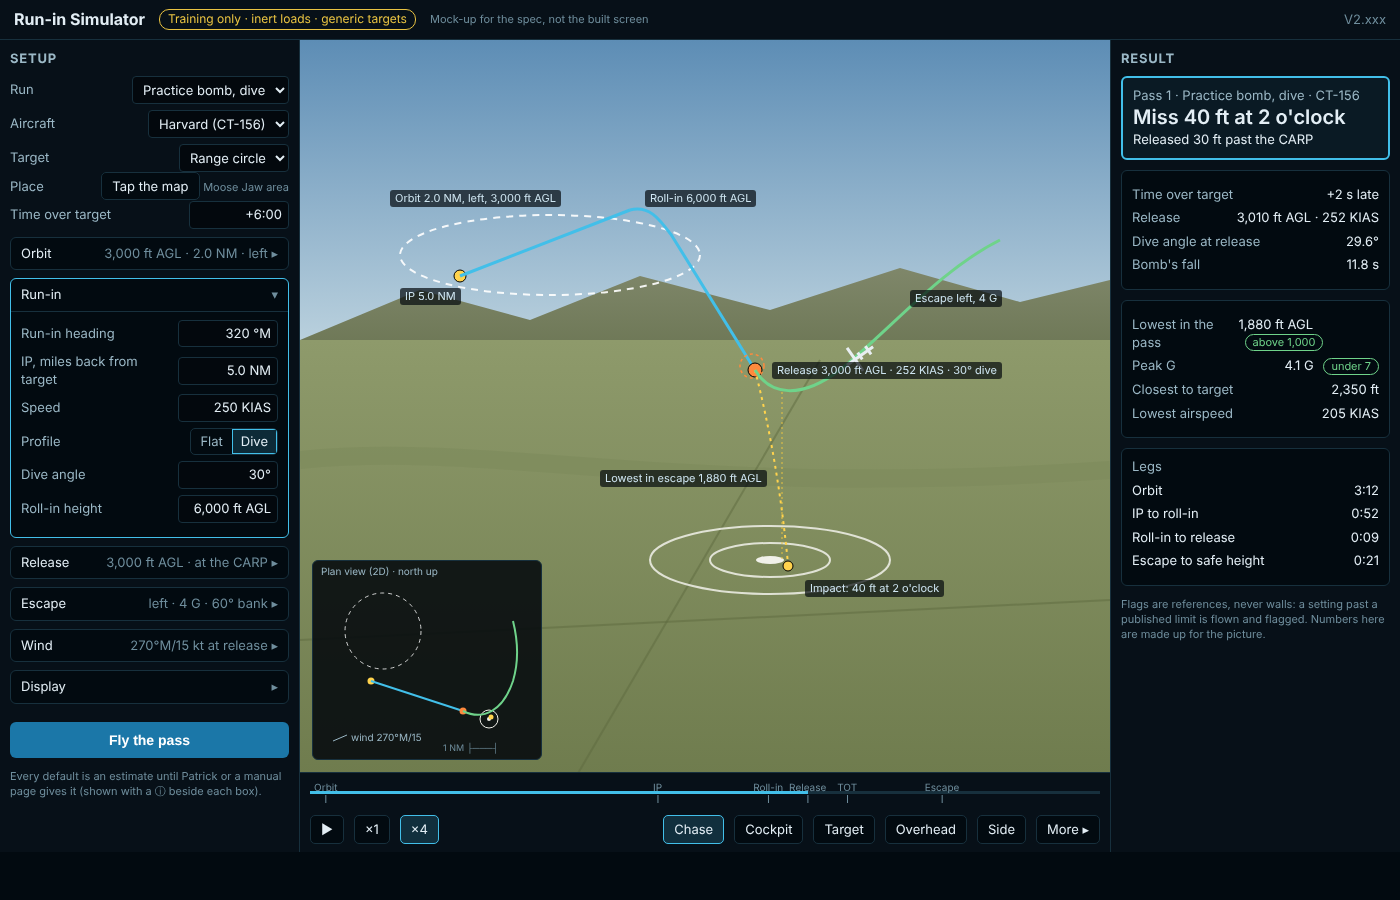
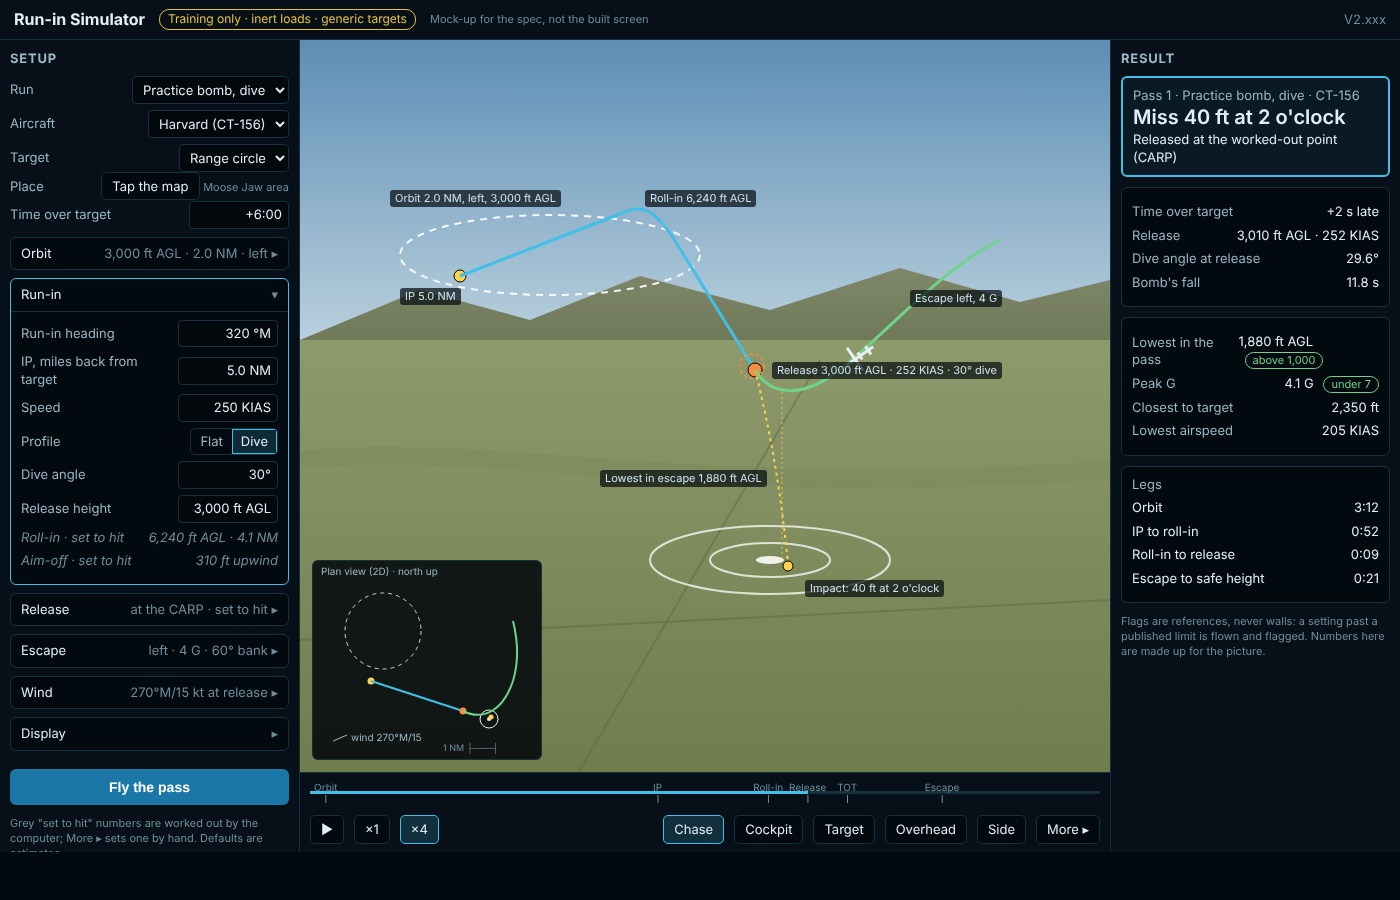
Run-in Simulator: spec approved, with Patrick's "computer sets what's needed to hit" (RS-9)
Patrick approved the spec (relayed by Dad, 16 Oct 2026: "yea pat approves"),
adding: "the user should sset a few parameters the then the computer sets the
offset or whatever variable needs adjusting to hit". RS-9 and RS-R9 write that
down: for each run a short list of settings is the user's, and the release
point, aim-off, roll-in and orbit exit are worked out to hit, with a hand
override under More that shows the miss. Spec, decisions, requirements, plan,
README, ALL-44 and the waiting list marked approved; the mock-up shows the
worked-out numbers greyed as "set to hit".

Claude-Session: https://claude.ai/code/session_01RASZnt8wGVYk1fkHrVtpYT

Changed region(s): [[0.7986, 0.1244, 1.0, 0.7467], [0.0, 0.56, 0.215, 0.9333]]

diff --git a/docs/modules/run-in-sim/spec.md b/docs/modules/run-in-sim/spec.md
@@ -1,6 +1,6 @@
 # Run-in Simulator: spec
 
-Dad's ask (16 Oct 2026): "Lets build a run in simulator...the target can be a stadium, a bridge, mountains etc in a 3d enviroment. the user should see an orbit and a run in and be able to set those parameters along with speed alt winds. to see how the flyover, inert bomb drop, DZ offload will go, Diving drop or flat, as well as the escape manuver". Patrick approved the plan (relayed by Dad, 16 Oct 2026: "got the yes"). **This spec is a draft for Patrick's approval; no code starts before it** (rule book, "Write it down first").
+Dad's ask (16 Oct 2026): "Lets build a run in simulator...the target can be a stadium, a bridge, mountains etc in a 3d enviroment. the user should see an orbit and a run in and be able to set those parameters along with speed alt winds. to see how the flyover, inert bomb drop, DZ offload will go, Diving drop or flat, as well as the escape manuver". Patrick approved the plan (relayed by Dad, 16 Oct 2026: "got the yes"). **Patrick approved this spec (relayed by Dad, 16 Oct 2026: "yea pat approves"), adding: "the user should sset a few parameters the then the computer sets the offset or whatever variable needs adjusting to hit"** (RS-9, below).
 
 ## What it is for
 
@@ -22,7 +22,7 @@ One screen, laid out by the house rules (`.agent/skills/screen-layout-and-style`
 - **Wind:** at the release height and at the ground (°M and kt, linear between them), and today's temperature against the standard day. Under More, a "planning wind" the CARP is worked out with, if different from the wind the pass meets, to see what a wrong forecast does.
 - **Display:** what's drawn (the orbit and run-in lines, the CARP, the load's trail, the flags), as the house rules say.
 
-The main button is **Fly the pass**. Every setting starts at a default (the table below), and each box marks an estimate with a ⓘ that says so.
+Each box shows only the few settings the user sets for that run (RS-9, below). Everything else in it is worked out by the computer and shown greyed with "set to hit". The main button is **Fly the pass**. Every setting starts at a default (the table below), and each box marks an estimate with a ⓘ that says so.
 
 **Middle: the 3D view.** The real ground (the shared terrain, with the satellite picture draped on it) round the target, the target shape, the aircraft model, and the planned lines: the orbit, the IP, the run-in and the dive line, the CARP and the escape. As it flies, a trail follows the aircraft, and after release a trail follows the load to its impact mark. A small **plan view (2D)**, north up, sits in a corner. It shows the same lines from above with the wind arrow and a scale.
 
@@ -32,6 +32,19 @@ The main button is **Fly the pass**. Every setting starts at a default (the tabl
 - the release (height, KIAS, dive angle) against the plan, and the load's time of fall;
 - the escape: the lowest height above the ground over the whole pass after the IP, peak G, the closest distance to the target and the lowest airspeed, each flagged against its reference;
 - the time on each leg.
+
+## What the user sets and what the computer works out (RS-9)
+
+Patrick (relayed by Dad, 16 Oct 2026): "the user should sset a few parameters the then the computer sets the offset or whatever variable needs adjusting to hit". So for each run the user sets a few essentials. The computer then works out every other number the pass needs to hit the aim point (or to make the flypast on time and at height), and flies it. These include the release point, the aim-off for the wind, the roll-in point, the IP turn and the orbit exit.
+
+| Run | The user sets | The computer works out to hit |
+|---|---|---|
+| Flyover | target, run-in heading, speed, height over the target's top, time over target | the crab for the wind, the IP turn, the orbit exit for the time over target |
+| Practice bomb, flat | target, run-in heading, speed, release height | the release point (the CARP), so the aim-off for the wind; the crab; the orbit exit |
+| Practice bomb, dive | target, run-in heading, dive angle, speed at release, release height | the release point on the dive line and the aim-off point upwind; the roll-in point and height, so the dive is steady for a few seconds before release (5 s, an estimate); the orbit exit |
+| Cargo offload | drop zone and point of impact, run-in heading, drop speed, drop height | the release point (the CARP: the green light), the crab, the orbit exit |
+
+The IP distance, the wind, the escape and the orbit keep their defaults unless the user changes them. Under More, any worked-out number can be set by hand instead. The pass is then flown as set, and the card shows the miss that results, which shows what a late release or a wrong aim-off does. When the essentials can't hit (for example, a release too low for the dive to be steady), the computer says which essential stops it and what would work, and still flies the pass as set.
 
 ## Targets (RS-2)
 

diff --git a/docs/DECISIONS.md b/docs/DECISIONS.md
@@ -52,7 +52,7 @@ Each row is one decision. "Rule" is the decision as it now reads (reworded where
 | ALL-40 | **The fastest G ever builds is 6 G/s** (was 8, twice the normal 4 G/s, ALL-28 and TS-93). One core number, `t6-performance.js` T6A_G_ONSET_CEILING_GPS, which the Formation's gate (`handling.js` G_ONSET_CEILING) and Traffic's (`traffic/envelope.js`, its copy gone) both read. No pilot source supports more: centrifuge training tops out about 6 G/s; Patrick's recorded pulls peak under 3 G/s; the manuals say only "smooth, deliberate". An estimate. | Patrick 12 Oct 2026 ("make it 6 g/s ceiling"). Built V2.424. |
 | ALL-41 | **Manuals in the public repo: only the CFAFM stays out.** The SMM and the other manuals' text and figures may go in the repo and its docs, always with their page; the CFAFM, a controlled document, never goes in a repo, the project files, the site or the app. Checklists, boldface and performance charts are still never shipped in the tool. Replaces the reset's rule that no manual text or pictures went in the repo (AGENTS.md, ALL-R24). | Patrick, 13 Oct 2026: "SMM is fine in public repo. its just cfafm that cant", when he asked for the SMM's echelon, station-keeping and turn paragraphs in the Formation spec. |
 | ALL-42 | **Ships are told apart by their numbers and a coloured label, not by the fin** (Patrick, 13 Oct 2026: "Numbers plus a label"). Every CT-156 is painted as the real aircraft, navy fin included; each ship carries its own nose and fin number, and any view that must tell ships apart shows a small coloured label or marker over each ship. Debrief's "ship's colour on the fin" changes to match (its spec, the 3D view). The places that told ships apart by the fin colour (debrief `view3d/view.js`, turn-fight `view3d.js`, turn-sim `view3d.js`, traffic `view3d.js`, SOF `traffic3d.js`, EP Tabletop `world3d.js`) follow in their own lanes. (ALL-40 and ALL-41 are on open pull requests.) | new | Patrick, 13 Oct 2026 (wording approved as written). |
-| ALL-44 | **A new module, the Run-in Simulator:** an orbit, a run-in, a release (or a flypast) and an escape, auto-flown in 3D over the real ground to the user's settings, for flyovers, inert practice-bomb passes (flat or dive) and cargo offloads over a drop zone; generic target shapes, training only. Its folder is `docs/modules/run-in-sim/`, decisions prefix RS-. Building starts on Patrick's approval of the spec. (ALL-43 is taken by the shelved Navigation Planner's draft pull request.) | new | Dad, 16 Oct 2026; Patrick approved the plan, relayed by Dad ("got the yes"). Wording not yet confirmed with Patrick. |
+| ALL-44 | **A new module, the Run-in Simulator:** an orbit, a run-in, a release (or a flypast) and an escape, auto-flown in 3D over the real ground to the user's settings, for flyovers, inert practice-bomb passes (flat or dive) and cargo offloads over a drop zone; generic target shapes, training only. Its folder is `docs/modules/run-in-sim/`, decisions prefix RS-. Building starts on Patrick's approval of the spec. (ALL-43 is taken by the shelved Navigation Planner's draft pull request.) | new | Dad, 16 Oct 2026; Patrick approved the plan and the spec, relayed by Dad ("got the yes", "yea pat approves"). |
 
 
 ## Replaced old decisions (history: what replaced them)

diff --git a/docs/modules/run-in-sim/decisions.md b/docs/modules/run-in-sim/decisions.md
@@ -1,6 +1,6 @@
 # Run-in Simulator: decisions (RS-)
 
-All proposed with the spec, for Patrick's approval; none is in force until he says yes. Wording not yet confirmed with Patrick.
+Approved with the spec by Patrick (relayed by Dad, 16 Oct 2026: "yea pat approves"); RS-9 is his addition.
 
 | ID | Decision | Files | Source |
 |---|---|---|---|
@@ -11,7 +11,8 @@ All proposed with the spec, for Patrick's approval; none is in force until he sa
 | RS-5 | **The load is core `drop.js`** (DB-36); its CARP is improved in place to take a dive release (the release velocity's vertical part, the release point slid along the dive line). | `src/core/drop.js`, flight-math list | Rule book, one copy of each formula. |
 | RS-6 | **Limits flag, never stop.** The stall line, the roll limit and the G onset always hold; the published G limit and VMO and the module's escape references (lowest height, distance from the target, the flyover's height over the target's top) are flagged on the result card; a setting past them is flown as set; a pass the aircraft can't make is flown as best it can and flagged, never silently changed. | spec | Rule book, "References, not walls". |
 | RS-7 | **Wind and temperature are typed**, at the release height and the ground, linear between; a "planning wind" under More works out the CARP when it differs from the wind met. No outside weather source. | spec, Setup | Dad, 16 Oct 2026: "speed alt winds" set by the user; rule book, new outside sources need Patrick's yes. |
-| RS-8 | **The pilot times the orbit's exit to make the planned time over target**; when no exit can, it flies the soonest and the card says how late. | spec, The pass | Build choice (time over target is the flyover's point); wording to confirm. |
+| RS-8 | **The pilot times the orbit's exit to make the planned time over target**; when no exit can, it flies the soonest and the card says how late. | spec, The pass | Build choice (time over target is the flyover's point); approved with the spec. |
+| RS-9 | **The user sets a few essentials; the computer works out the rest to hit.** For each run a short list of settings is the user's (spec table); the release point, the aim-off for the wind, the roll-in point, the IP turn and the orbit exit are worked out so the load lands on the aim point (or the flypast is on time and height). Under More any worked-out number can be set by hand, and the card shows the miss that results. | spec, What the user sets | Patrick, relayed by Dad, 16 Oct 2026: "the user should sset a few parameters the then the computer sets the offset or whatever variable needs adjusting to hit". |
 
 ## Waiting on a question
 

diff --git a/docs/PLAN.md b/docs/PLAN.md
@@ -153,7 +153,7 @@ After Traffic is signed off, the Turn Sim review runs before any Turn Sim buildi
 
 ## Waiting on Patrick
 
-- [ ] **Run-in Simulator spec (Dad's ask, 16 Oct 2026; you approved the plan, relayed by Dad).** Read [the spec](modules/run-in-sim/spec.md) with its screen picture and approve it, or say what to change, with the wording of ALL-44 and RS-1 to RS-8. Then its four questions one at a time (RS-Q1 the C-130J's flying, RS-Q2 the defaults, RS-Q3 the escape references, RS-Q4 the starting places; [README](modules/run-in-sim/README.md)); each has a working answer.
+- [ ] **Run-in Simulator questions (spec approved, relayed by Dad, 16 Oct 2026; [README](modules/run-in-sim/README.md)):** RS-Q1 how the C-130J flies (working answer: its own performance set from public numbers, every number an estimate; its numbers table comes to you before it flies), RS-Q2 the defaults, RS-Q3 the escape references, RS-Q4 the starting places. Each has a working answer.
 
 - [ ] **CT-156 model, the fix list (Shared 3D, plan Step 3b item 4; 12 Oct 2026):** every area's rows are verified and ruled (13 Oct 2026). **Look in the app (V2.427, branch `shared-3d-delivery-import`, #1032):** the station-change references (chunk 1) at High, outside and from the wingman positions, then the new look in each module; your yes merges them. **Try the in-game seat height** and say which default eye height makes sense (13 Oct 2026: "the seat does ... i can play with that and tell you"). Put CT-156 pictures into `3d-work` `refs/New folder/`, the list P1 to P15 in `ct156/measurements.md` (first P3 and P4: a wing's tie-down ring and the aft belly paddle close up, the station-change references) (the working plan: `3d-work` `ct156/plan.md`; every row: `ct156/fix-list.md`; the measurements: `ct156/measurements.md`); and next time at work, take the measurements on its list (M1 to M47: a phone clinometer on the canopy rail and on each canopy frame, tyres, sill and glare shield heights, bow sections, panel bezels, the rear cockpit, the prop blade, cowl seams, a helmet and harness, photos from each seat with the seat up and down). Handover: `Pat's claude work/graphics-handover-12oct-night.md`.
 - [ ] **Formation, 12 Oct evening (V2.411 to V2.417):** push tags v2.411 to v2.417 and deploy; fly the fighting wing turns, the telegraphed close turns, echelon Wings level and Reversal, and fluid Standard sequence R from a high stack; say yes or change the words for a decision row on Wings level and Reversal (working answer: Reversal turns 90° the other way). Handover: `Pat's claude work/formation-handover-12oct-evening.md`.

diff --git a/docs/modules/run-in-sim/plan.md b/docs/modules/run-in-sim/plan.md
@@ -1,6 +1,6 @@
 # Run-in Simulator: plan
 
-Only what is here gets built. Patrick approved the plan (relayed by Dad, 16 Oct 2026: "got the yes"); the spec is written and waits for his approval before any code.
+Only what is here gets built. Patrick approved the plan (relayed by Dad, 16 Oct 2026: "got the yes") and the spec ("yea pat approves"), adding RS-9: the user sets a few essentials and the computer works out the rest to hit.
 
 Dad's ask (16 Oct 2026): "Lets build a run in simulator...the target can be a stadium, a bridge, mountains etc in a 3d enviroment. the user should see an orbit and a run in and be able to set those parameters along with speed alt winds. to see how the flyover, inert bomb drop, DZ offload will go, Diving drop or flat, as well as the escape manuver". His card answers: generic shapes on real terrain; all three run types on one engine; auto-flown to the user's settings.
 
@@ -10,7 +10,7 @@ Dad's ask (16 Oct 2026): "Lets build a run in simulator...the target can be a st
 
 ## Step 1. Spec approved
 - [x] `spec.md`, `requirements.md` (RS-R1 to RS-R8), `decisions.md` (RS-1 to RS-8), `testing.md` and the screen picture (`screen-mockup.png`) written (16 Oct 2026).
-- [ ] Patrick approves the spec and the wording of ALL-44 and RS-1 to RS-8. RS-Q1 to RS-Q4 use their working answers until he says otherwise.
+- [x] Patrick approves the spec, ALL-44 and RS-1 to RS-8, adding RS-9 (relayed by Dad, 16 Oct 2026). RS-Q1 to RS-Q4 use their working answers until he says otherwise; the C-130J's numbers table goes to Patrick before it flies (RS-Q1).
 
 ## Step 2. The world
 - [ ] Module folder, home card and README; the one screen (Setup, the 3D view with the plan view, the result column, the bar).
@@ -21,7 +21,7 @@ Dad's ask (16 Oct 2026): "Lets build a run in simulator...the target can be a st
 - [ ] Flags on the card for the references and for a pass that can't be made (RS-6).
 
 ## Step 4. The three run types
-- [ ] Flyover timing; the practice-bomb pass with the CARP and the miss; the cargo offload from the C-130J (RS-Q1). `drop.js`'s CARP takes a dive release (RS-5).
+- [ ] The worked-out numbers for each run (RS-9) and the hand override under More. Flyover timing; the practice-bomb pass with the CARP and the miss; the cargo offload from the C-130J (RS-Q1). `drop.js`'s CARP takes a dive release (RS-5).
 - [ ] The planning wind under More (RS-7).
 
 ## Step 5. One light test

diff --git a/docs/modules/run-in-sim/README.md b/docs/modules/run-in-sim/README.md
@@ -4,13 +4,12 @@ An orbit, a run-in, a release (or a flypast) and an escape, flown in 3D over the
 
 ## Where it stands
 
-**Spec written, waiting on Patrick's approval; no code yet.** Dad asked on 16 Oct 2026; Patrick approved the plan (relayed by Dad, 16 Oct 2026). It does not show on the home screen until Step 2 is built (ALL-R4). It is built once the Debrief's drop (core `drop.js`) and the C-130J model are on main.
+**Spec approved; building Step 2.** Dad asked on 16 Oct 2026; Patrick approved the plan and the spec (relayed by Dad, 16 Oct 2026), adding RS-9: the user sets a few essentials and the computer works out the rest to hit. It does not show on the home screen until Step 2 is built (ALL-R4). It is built once the Debrief's drop (core `drop.js`) and the C-130J model are on main.
 
 ## What is next
 
-1. Patrick reads `spec.md` with `screen-mockup.png`, and approves it (or says what to change), with the wording of ALL-44 and RS-1 to RS-8.
-2. The open questions below, one at a time; each has a working answer the spec uses.
-3. Step 2, the world.
+1. Steps 2 to 5 (the world, the flying, the three run types, the one test) as one pull request.
+2. The open questions below, one at a time; each has a working answer the spec uses. RS-Q1's C-130J numbers table goes to Patrick before the C-130J flies.
 
 ## The files
 
@@ -19,7 +18,7 @@ An orbit, a run-in, a release (or a flypast) and an escape, flown in 3D over the
 | `spec.md` | How it works: the screen, the targets, the five legs, how it flies, the defaults, what happens when data fails |
 | `screen-mockup.png` | The screen picture (a mock-up; its numbers are made up) |
 | `requirements.md` | What it must do, in Dad's words, with how each is checked (RS-R) |
-| `decisions.md` | Decisions proposed with the spec (RS-) |
+| `decisions.md` | Decisions approved with the spec (RS-) |
 | `testing.md` | The one light test and the sign-off checklist |
 | `plan.md` | The ordered steps and checkboxes |
 | `future.md` | Ideas not being built until Patrick moves an item up |

diff --git a/docs/modules/run-in-sim/requirements.md b/docs/modules/run-in-sim/requirements.md
@@ -1,6 +1,6 @@
 # Run-in Simulator: requirements (RS-R)
 
-Each line is in Dad's words where he gave them, with how it is checked. Source: Dad, 16 Oct 2026 (his message and his three card answers); Patrick approved the plan (relayed by Dad, 16 Oct 2026). Draft until Patrick approves the spec.
+Each line is in Dad's words where he gave them, with how it is checked. Source: Dad, 16 Oct 2026 (his message and his three card answers); Patrick approved the plan (relayed by Dad, 16 Oct 2026). Approved with the spec by Patrick (relayed by Dad, 16 Oct 2026).
 
 | ID | Requirement | How it is checked |
 |---|---|---|
@@ -12,3 +12,4 @@ Each line is in Dad's words where he gave them, with how it is checked. Source: 
 | RS-R6 | "As well as the escape manuver": the escape (direction, G, bank, heading change, climb) is flown and judged: the lowest height above the ground, the closest distance to the target and the peak G, each flagged against its reference, never a wall. | The one light test (the escape stays above the ground) and the checklist. |
 | RS-R7 | Auto-flown to the user's settings (Dad's card: "Auto-flown, you set it") by the shared flight model, so bank, G and energy are the aircraft's. | Code review: the flying uses core's point mass and performance set, no second formula. |
 | RS-R8 | Training only: inert loads, generic shapes, no real-world target data, "Training only" on screen. | Code review and the checklist. |
+| RS-R9 | "The user should sset a few parameters the then the computer sets the offset or whatever variable needs adjusting to hit" (Patrick, relayed by Dad, 16 Oct 2026): for each run the user sets a few essentials and the computer works out the release point, the aim-off, the roll-in and the timing so the pass hits. | The one light test (released at the worked-out point, the bomb lands on the aim point) and the checklist. |
